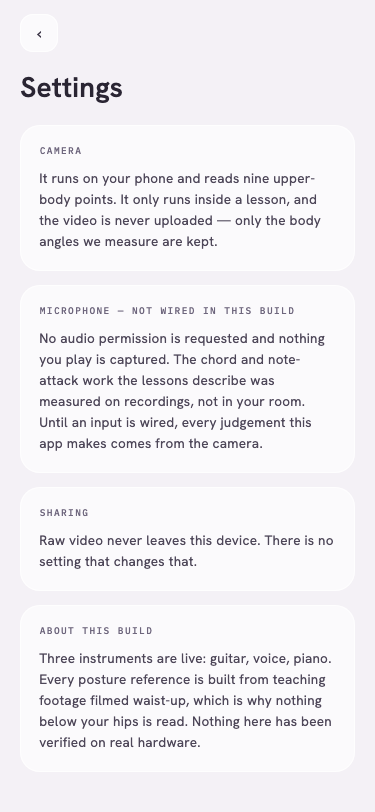
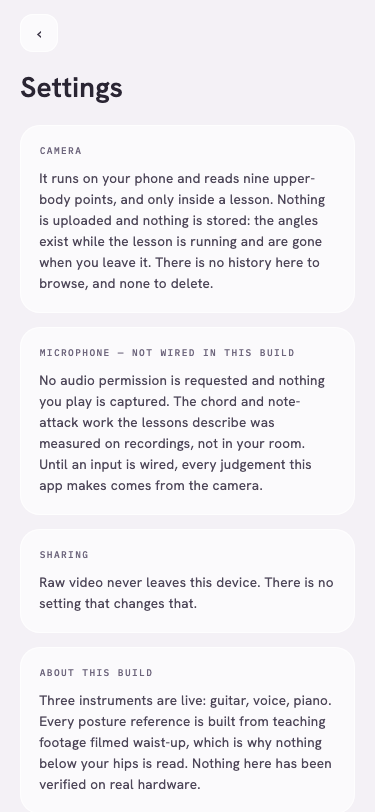
Yayın envanteri: hayalet bir saklama mekanizması anlatılıyordu (O-054)
Koordinatörün aktardığı JabLab aracı, iki biçim kuralıyla uygulandı:
① soru KULLANICI tarafından ("bugün bu uygulamayı açan biri hangi yüzeyden
   yanlış bilgilenir?") — "ne eksik?" diye sorsaydım bu çıkmazdı, çünkü
   kalem EKSİK DEĞİL FAZLAYDI
② her satır KANIT sütunu taşıdı ("nasıl biliyorum") — bulgu tam orada düştü.

BULGU. İki yüzey bir SAKLAMA mekanizması anlatıyordu:
  · settings  "the video is never uploaded — only the body angles we
               measure are kept"
  · onboarding "What we keep is the body angles we measured"
ÖLÇÜM: `lib/` içinde TOPLAM iki dosya yazımı var, ikisi de ölçüm değil —
karşılama işareti (`onboarding-v1.done`) ve poz modeli dosyası. HİÇBİR ölçüm
saklanmıyor; ders biter, sayılar gider.

NEDEN EN ZOR YAKALANAN SINIF: **sonuç DOĞRUYDU, gerekçe uydurmaydı.** Video
gerçekten cihazdan çıkmıyor (ağ çağrısı da yok, ölçüldü) — ama VERİLEN
SEBEP ("çünkü yalnız açıları tutuyoruz") yanlıştı. Kimse doğru sonucu
sorgulamadığı için gerekçe hiç denetlenmiyordu.

VE BU BİR GİZLİLİK KUSURU, dil kusuru değil: "yalnız şunu tutuyoruz" bir
İMTİYAZ cümlesidir, kullanıcıya cihazında bir KAYIT olduğunu düşündürür. Bir
inceleme "o veri nerede, nasıl silinir?" diye sorsa — silinecek bir şey yok.
Yeni metin daha GÜÇLÜ bir gizlilik beyanı, üstelik doğru: "Nothing is
uploaded and nothing is stored: the angles exist while the lesson is running
and are gone when you leave it. There is no history here to browse, and none
to delete."
[…]

Changed region(s): [[0.088, 0.2155, 0.88, 0.9852], [0.704, 0.7081, 0.88, 0.7389], [0.704, 0.6466, 0.88, 0.6773]]

diff --git a/lib/app/screens/settings_screen.dart b/lib/app/screens/settings_screen.dart
@@ -47,10 +47,20 @@ class SettingsScreen extends StatelessWidget {
               // göremiyordu — başlık "mikrofon" diyor, gerekçe gövdedeydi.
               const _SettingsCard(
                 title: 'Camera',
+                // DÜZELTME (2026-08-07, O-054 — yayın envanteri): önceki
+                // cümle "only the body angles we measure are kept" diyordu.
+                // Ölçüldü: `lib/` içinde TEK dosya yazımı karşılama
+                // işaretidir; HİÇBİR ölçüm saklanmıyor. Sonuç DOĞRUYDU
+                // (video cihazdan çıkmıyor), GEREKÇE uydurmaydı — ve doğru
+                // sonucu yanlış gerekçeyle söylemek en zor yakalanan hata,
+                // çünkü kimse sonucu sorgulamıyor. Üstelik cümle bir
+                // gizlilik İMTİYAZI kılığındaydı ("yalnız şunu tutuyoruz"),
+                // yani kullanıcıya cihazında bir KAYIT olduğunu düşündürüyordu.
                 body: 'It runs on your phone and reads nine upper-body '
-                    'points. It only runs inside a lesson, and the video is '
-                    'never uploaded — only the body angles we measure are '
-                    'kept.',
+                    'points, and only inside a lesson. Nothing is uploaded '
+                    'and nothing is stored: the angles exist while the '
+                    'lesson is running and are gone when you leave it. '
+                    'There is no history here to browse, and none to delete.',
               ),
               const SizedBox(height: 14),
               const _SettingsCard(

diff --git a/lib/app/screens/onboarding_screen.dart b/lib/app/screens/onboarding_screen.dart
@@ -420,9 +420,12 @@ class _SensorsStep extends StatelessWidget {
           const _SensorCard(
             title: 'Your video',
             key: Key('onboarding-video-card'),
+            // Aynı düzeltme (O-054): "What we keep is …" var olmayan bir
+            // saklama mekanizmasını anlatıyordu.
             body: 'Raw video never leaves this device — there is no setting '
-                'that changes that. What we keep is the body angles we '
-                'measured, and the camera only runs inside a lesson.',
+                'that changes that. Nothing is stored either: what we '
+                'measure exists while the lesson runs and is gone when it '
+                'ends. The camera only runs inside a lesson.',
           ),
         ],
       );

diff --git a/tools/validate_surface_honesty.py b/tools/validate_surface_honesty.py
@@ -143,6 +143,33 @@ def coached_only_joints(instrument):
         "referenceConsumption", {})
     return rc.get("coached_only", []) or []
 
+
+# ── E: SAKLAMA iddiası, saklayan bir KOD YOLU ister ────────────────────────
+# (Yayın envanteri, O-054 — JabLab'ın "üretici yok ama beyan onu ANLATIYOR"
+# sınıfı.) İki yüzey "what we keep is the body angles we measured" /
+# "only the body angles we measure are kept" diyordu. Ölçüldü: `lib/` içinde
+# TEK dosya yazımı karşılama işaretidir, hiçbir ölçüm saklanmıyor.
+#
+# En sinsi yanı: **sonuç DOĞRUYDU** (video cihazdan çıkmıyor), yalnız
+# GEREKÇE uydurmaydı. Doğru sonucu yanlış gerekçeyle söylemek en zor
+# yakalanan hatadır — kimse sonucu sorgulamadığı için gerekçe hiç
+# denetlenmez. Üstelik cümle bir gizlilik İMTİYAZI kılığındaydı, yani
+# kullanıcıya var olmayan bir KAYIT olduğunu düşündürüyordu.
+RETENTION_CLAIM = re.compile(
+    r"\bwe keep\b|\bare kept\b|\bis kept\b|\bwe store\b|\bis stored\b|"
+    r"\bsaved on (?:your|this) (?:phone|device)\b|\byour history\b",
+    re.IGNORECASE)
+# Yokluğu söyleyen cümle geçer.
+RETENTION_ABSENCE = re.compile(
+    r"nothing is stored|none to delete|no history|are gone when|"
+    r"is gone when|not stored|nothing is kept", re.IGNORECASE)
+#: Ölçüm SAKLAYAN bir kod yolu nasıl görünürdü. Karşılama işareti ve poz
+#: modeli dosyası HARİÇ (ikisi de ölçüm değil): dosya adlarıyla muaf.
+RETENTION_WRITERS = re.compile(
+    r"writeAsString|writeAsBytes|SharedPreferences|Hive\.|sqflite|"
+    r"\.insert\(|openDatabase")
+RETENTION_EXEMPT_FILES = {"onboarding_store.dart", "pose_model.dart"}
+
 DART_ROOTS = ["lib"]
 LIBRARY_JSON = "assets/content/library.json"
 PUBSPEC = "pubspec.yaml"
@@ -385,6 +412,28 @@ def main() -> int:
                         f"cümle bu sınırı söylemiyor — yeteneği olduğundan "
                         f"geniş yazmak, sınırı dar yazmaktan tehlikelidir — "
                         f"«{claim.strip()[:100]}»")
+
+
+    # ── Kural E ──
+    writer_found = False
+    for f in Path("lib").rglob("*.dart"):
+        if f.name in RETENTION_EXEMPT_FILES:
+            continue
+        if RETENTION_WRITERS.search(strip_dart_comments(
+                f.read_text(encoding="utf-8"))):
+            writer_found = True
+            break
+    if not writer_found:
+        for where, text in surfaces:
+            for sentence in sentences(text):
+                if not RETENTION_CLAIM.search(sentence):
+                    continue
+                if RETENTION_ABSENCE.search(sentence):
+                    continue
+                violations.append(
+                    f"[saklama iddiası] {where}: cümle bir şeyin SAKLANDIĞINI "
+                    f"söylüyor ama kabukta ölçüm saklayan bir kod yolu YOK — "
+                    f"«{sentence.strip()[:110]}»")
 
     if violations:
         print(f"⛔ {len(violations)} YÜZEY DÜRÜSTLÜĞÜ İHLALİ:")
